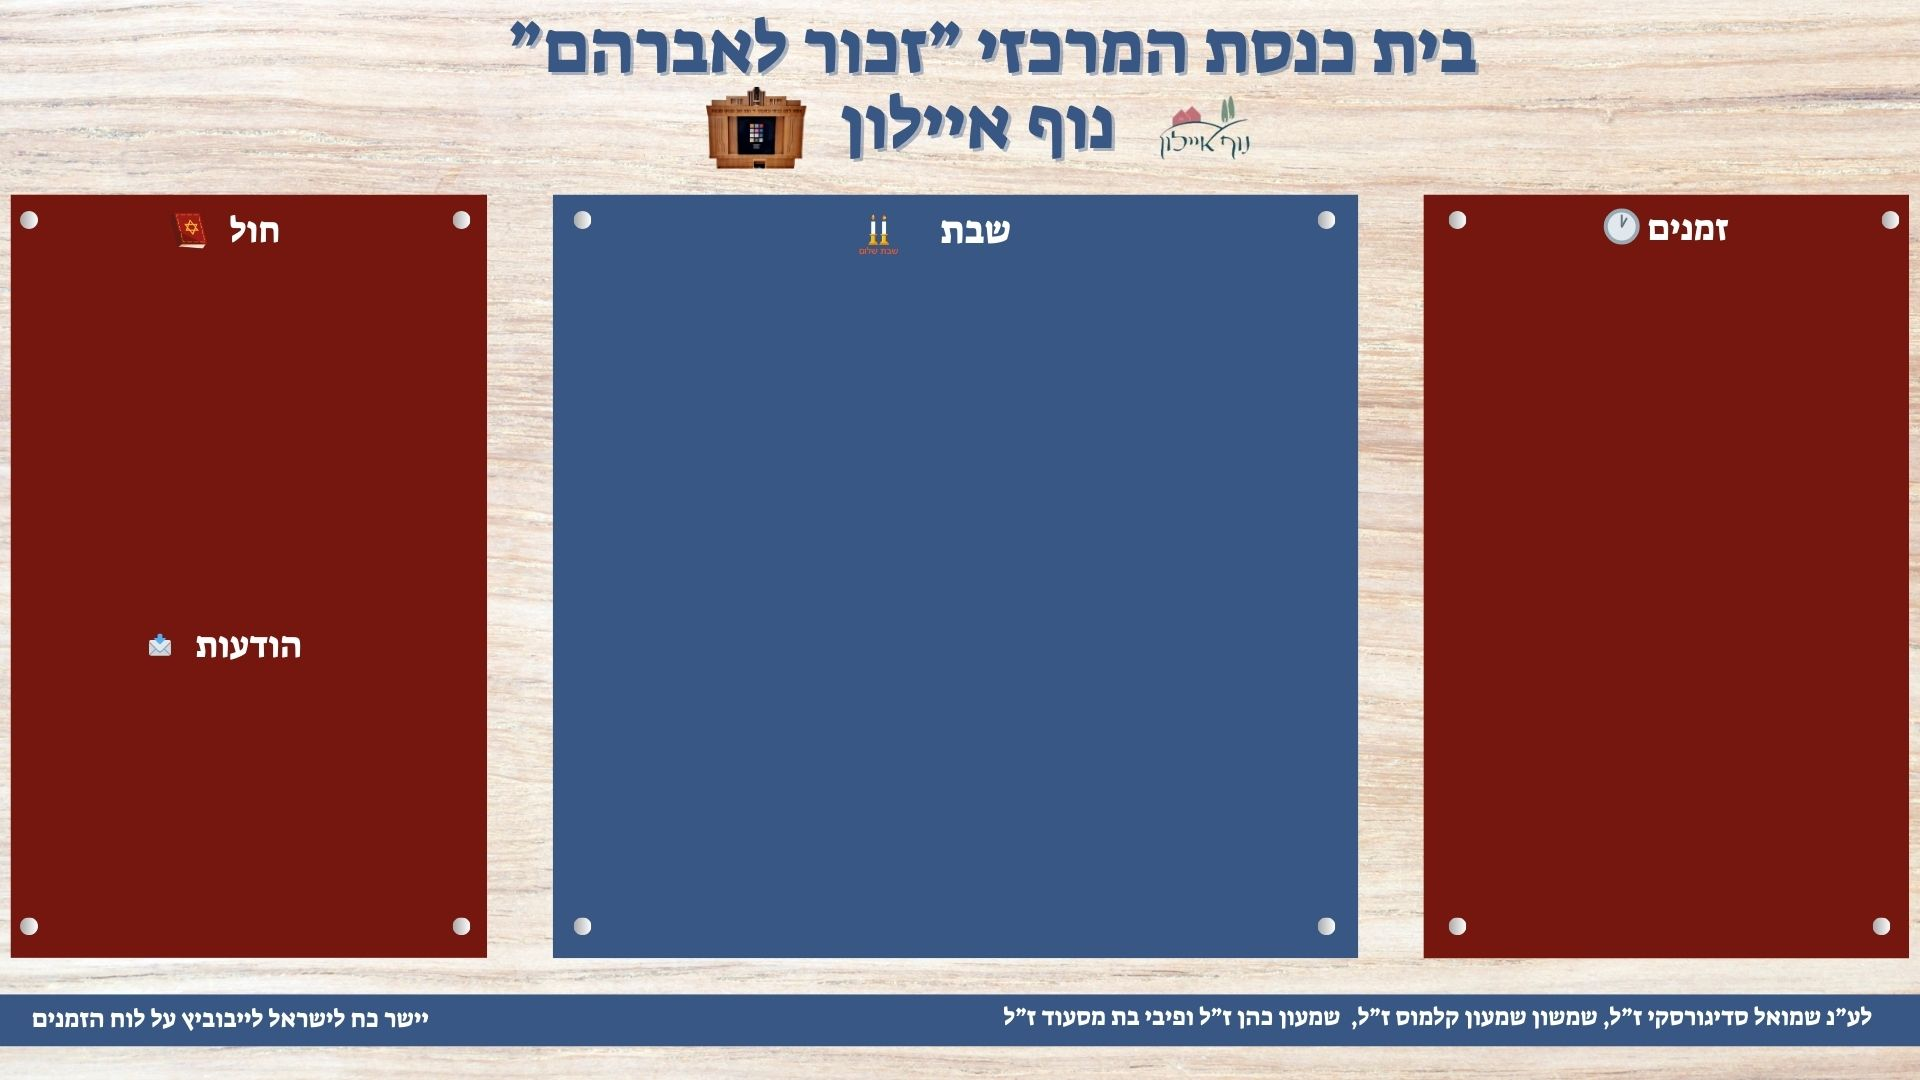
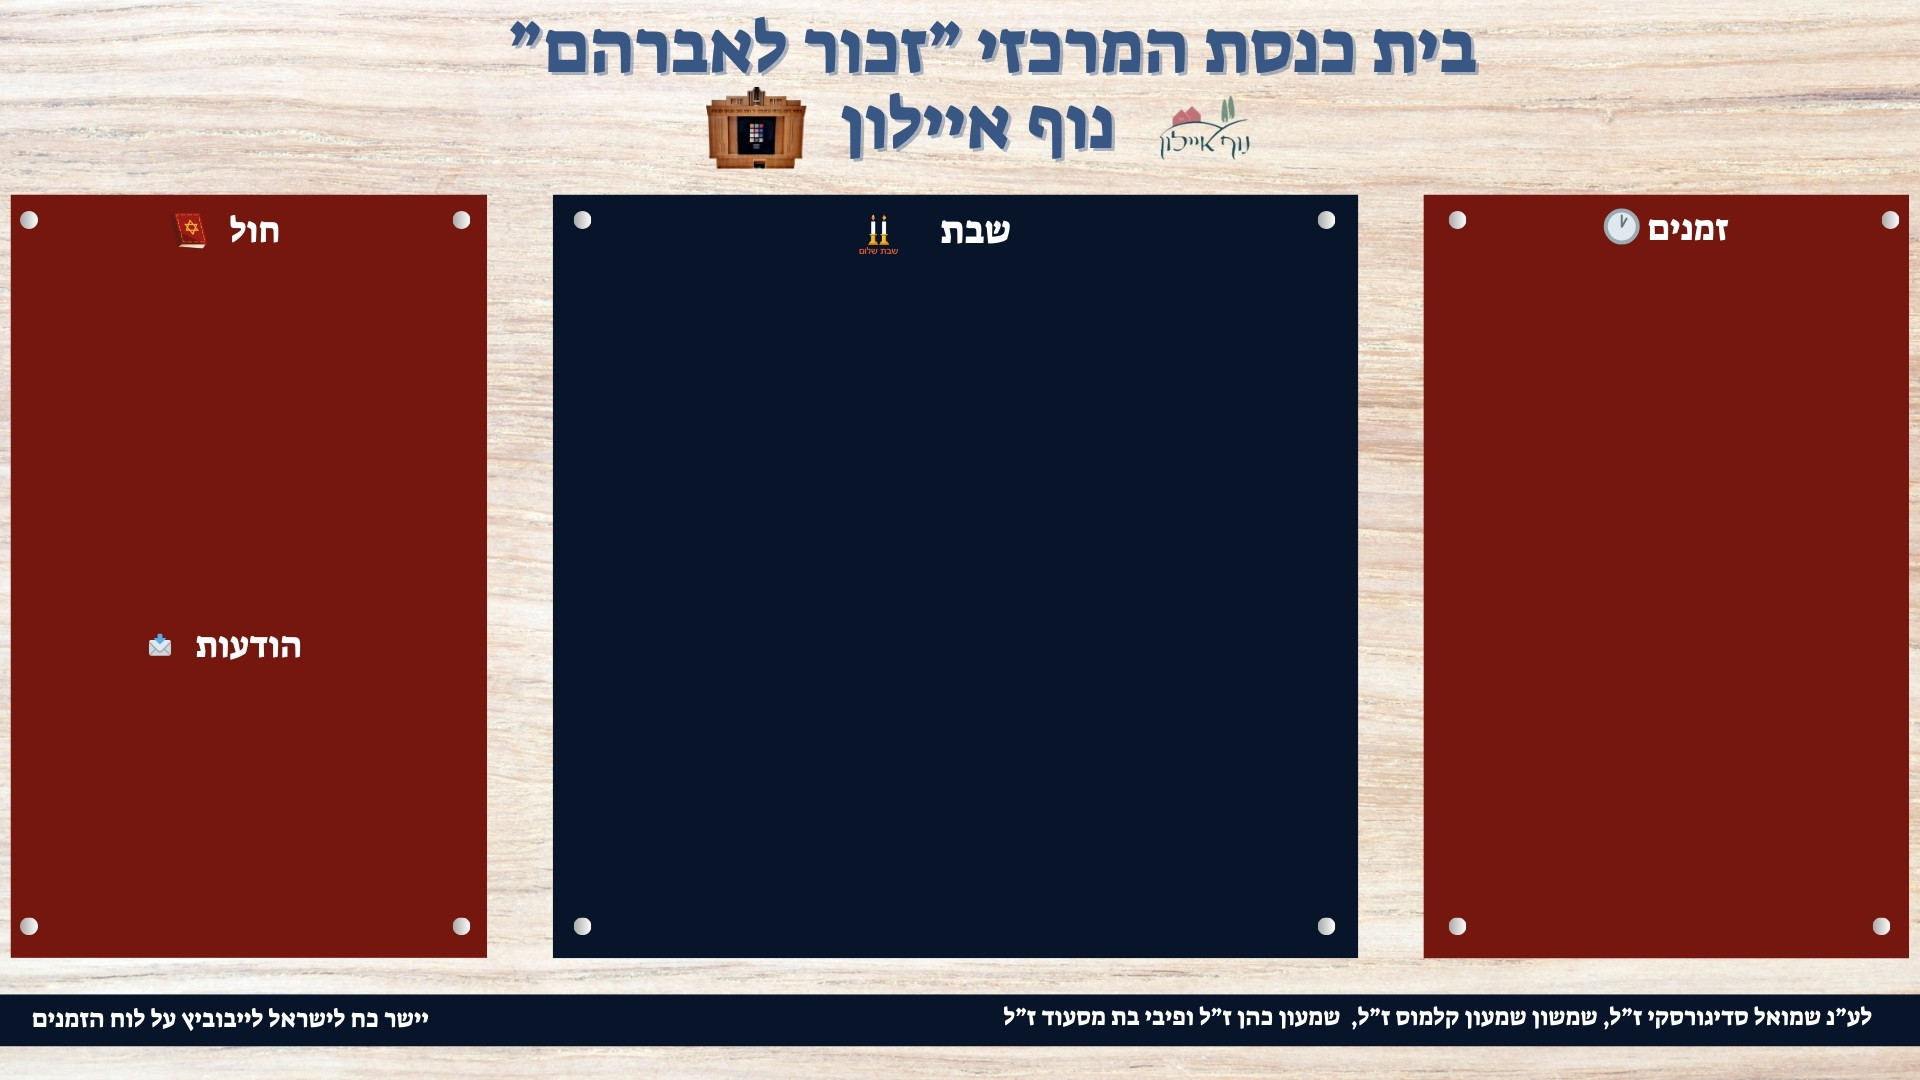
change shabat background

diff --git a/index.html b/index.html
@@ -20,12 +20,12 @@
 
     <div class="container-fluid ">       
         <div class="row">
-            <div class="col-6" style="text-align: right; color:#395784; font-size: 24px;">
+            <div class="col-6" style="text-align: right; color:#071429; font-size: 24px;">
                 <h1><span id="weekday"></span></h1> 
                 <h1><span id="today"></span></h1>
                 <h1><span id="daf_yomi"></span></h1>
             </div>
-            <div class="col-6" style="text-align: left; color:#395784; font-size: 24px;">
+            <div class="col-6" style="text-align: left; color:#071429; font-size: 24px;">
                 <h1><span id="digital-clock"></span></h1>
                 <h1><span id="loazi"></span></h1>
                 <div id="connection-status" class="status-circle"></div>                
